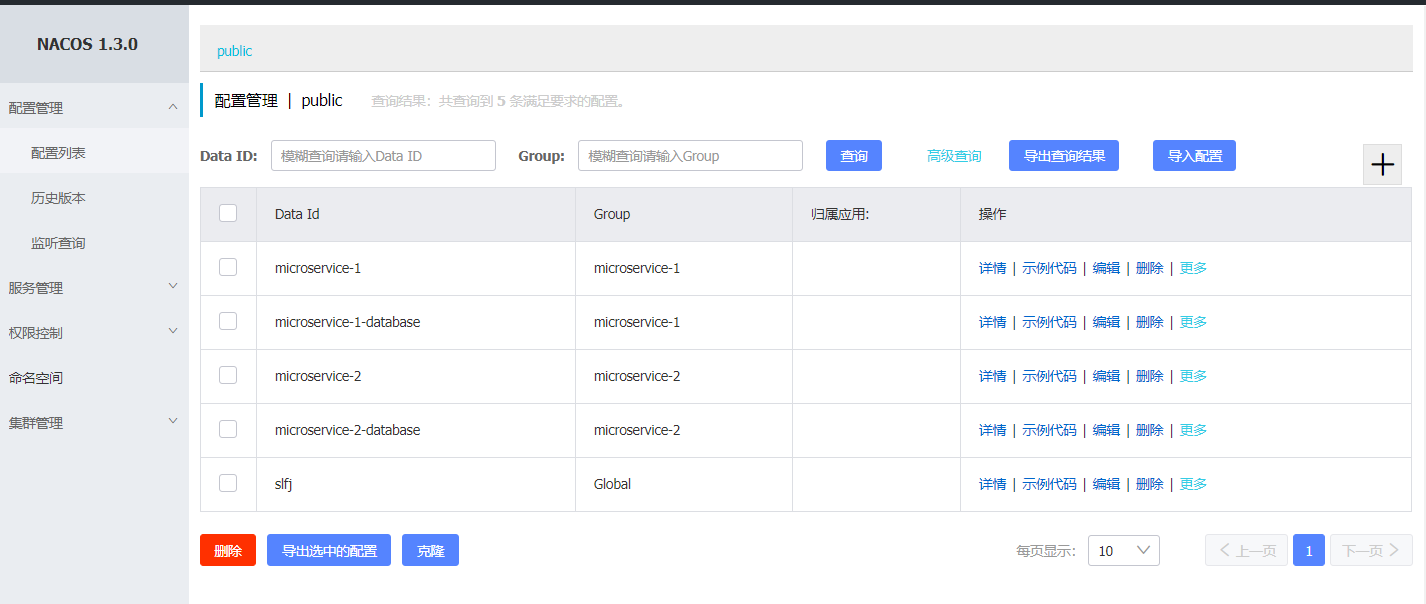
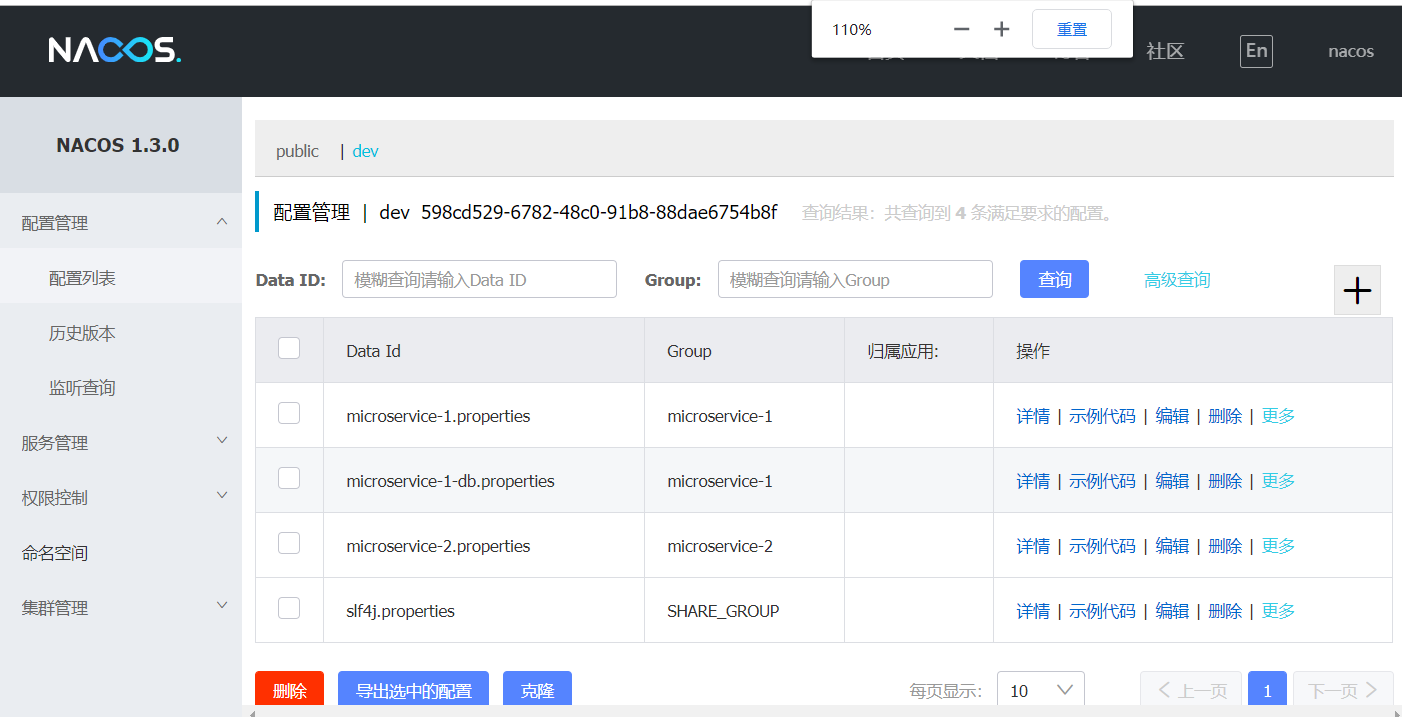
nacos完成

diff --git a/README.md b/README.md
@@ -1,6 +1,13 @@
-# nacos的项目介绍
+# apollo的部署和使用
 
 
+
+
+
+
+
+
+# nacos的部署和使用
 
 ## nacos简介
 
@@ -26,7 +33,11 @@ gitihub https://github.com/alibaba/nacos
 
 ## 项目结构
 
+### 项目目录
 ![dir.png](https://github.com/wongdw/config/blob/master/nacos/img/dir.png)
+
+### 项目config文件夹
+![config-dir.png](https://github.com/wongdw/config/blob/master/nacos/img/config-dir.png)
 
 
 
@@ -71,7 +82,7 @@ server.port=8848
 
 
 
-## GUI和使用
+## 客户端使用
 
 [^使用版本号]: stable-1.3.0
 
@@ -81,7 +92,7 @@ server.port=8848
 
 
 
-## GUI首页
+### GUI-首页
 
 ![nacos-homePage](https://github.com/wongdw/config/blob/master/nacos/img/nacos-homePage.png)
 
@@ -93,13 +104,13 @@ server.port=8848
 
 - Group 用于区分不同的微服务名称（也可设置为全局变量组）
 
-- namespace (本图为public) 是命名空间类型数据库的scheme，每个命名空间的变量相互独立，可以自定义添加不同的namespace适应不同的profile
+- namespace (本图为dev) namespace类似关系型数据库的scheme，每个namespace的DataId相互独立，可以自定义添加不同的namespace适应不同的profile
 
   
 
 
 
-## 配置页面详情
+### GUI-配置页面详情
 
 ![config-detail](https://github.com/wongdw/config/blob/master/nacos/img/config-detail.png)
 
@@ -111,7 +122,7 @@ server.port=8848
 
 
 
-## 事务回滚功能
+### GUI-事务回滚功能
 
 ![cvs.png](https://github.com/wongdw/config/blob/master/nacos/img/cvs.png)
 
@@ -120,8 +131,34 @@ server.port=8848
 此外nacos还支持权限控制和多集群实现高可用
 
 
-# 项目整合
-nacos与spring整合非常容易，这是boottstarp
+### GUI-权限控制
+
+![permission1.png](https://github.com/wongdw/config/blob/master/nacos/img/permission1.png)
+
+![permission2.png](https://github.com/wongdw/config/blob/master/nacos/img/permission2.png)
+
+可以看到naocs支持 `Role Base Access control` 和 `Resource Base Access control`，权限管理比较细粒度，在权限方面管控的比较好。
+
+
+### open-api
+nacos除了提供GUI，jar包，还提供了open-api，可以使用open-api完成自动化部署。
+
+下面列举几个比较常用的api，具体参照官方文档
+```shell script
+#获取配置使用GET请求，两个参数分别为dataId和group
+curl -X GET "http://localhost:8848/nacos/v1/cs/configs?dataId=microservice-1.properties&group=dev"
+
+#新增配置使用POST请求
+curl -X POST "http://localhost:8848/nacos/v1/cs/configs?dataId=microservice-1.properties&group=dev"
+```
+
+
+
+
+## 项目整合
+
+### 配置文件
+nacos与spring整合非常容易，这是`bootstrap.properties`
 
 ```properties
 # 该文件早于 application.properties的加载，需要依赖spring-cloud
@@ -157,11 +194,11 @@ spring.cloud.nacos.config.shared-configs[0].data-id=slf4j.properties
 spring.cloud.nacos.config.shared-configs[0].group=SHARE_GROUP
 spring.cloud.nacos.config.shared-configs[0].refresh=true
 
-
 ```
+### 代码几乎不需要进行特殊的迁移（只需要添加 `@RefreshScope`注解即可 ）
 
 ```java
-package priv.wdw.nacos;
+package priv.wdw.config.nacos.service1;
 
 import org.springframework.beans.factory.annotation.Value;
 import org.springframework.cloud.context.config.annotation.RefreshScope;
@@ -173,26 +210,40 @@ import org.springframework.web.bind.annotation.RestController;
  * <p>@date 2020/6/20 20:58</p>
  * <p>@description </p>
  */
+
 @RestController
-@RefreshScope  //加上此注解才可以自动更新
-public class NacosDemo {
+@RefreshScope  //加上此注解 @Value才可以自动更新（系统的配置文件不需要此注解）
+public class NacosService1TestController {
+
+    /**
+     * 主配置文件 （microService1.properties）
+     */
+    @Value("${service1.key:null}")
+    private String val;
 
 
-    @Value(value = "${username}")
-    private volatile String username;
+    /**
+     * 定义在拓展配置文件（microService1-db.properties）
+     */
+    @Value("${jdbc.url:null}")
+    private String jdbcUrl;
 
 
-    @Value(value = "${jdbc.url}")
-    private volatile String jdbcUrl;
+    @GetMapping("/getVal")
+    public String getVal() {
+        return System.currentTimeMillis() + "-->" + this.val;
+    }
 
 
-    @GetMapping("/printVal")
-    public String printVal() {
-        return "username = " + username + '\n' + "jdbc.url = " + jdbcUrl;
+    @GetMapping("/jdbcUrl")
+    public String getJdbcUrl() {
+        return System.currentTimeMillis() + "-->" + this.jdbcUrl;
+
     }
 
 
 }
+
 ```
 
-演示结果查看子模块nacos-config
+**具体的deme参照项目当中的nacos-service1和nacos-service2**
